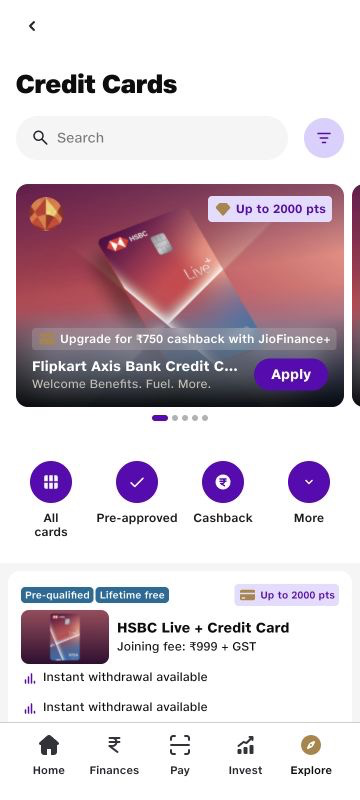
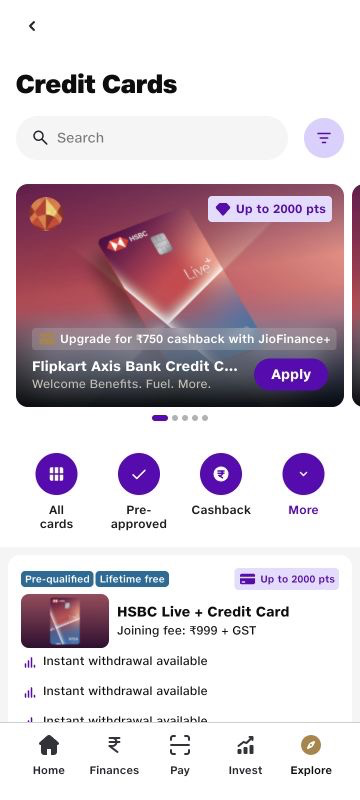
Fix Coin badge modes and Bento section

diff --git a/src/screens/CreditCardsFlow.tsx b/src/screens/CreditCardsFlow.tsx
@@ -16,6 +16,7 @@ import {
   ListItem,
   ProductMerchandisingCard,
   Screen,
+  Section,
   Title,
   VStack,
 } from 'jfs-components'
@@ -168,7 +169,6 @@ function CategoryItem({ category, onPress }: { category: Category; onPress?: () 
       onPress={onPress}
       accessibilityLabel={category.label.replace(/\s/g, ' ')}
       modes={{ Context: 'ListItem' }}
-      style={{ width: '25%', flexGrow: 0, flexShrink: 0 }}
     />
   )
 }
@@ -182,29 +182,29 @@ function CategoryGrid({
   onExpand: () => void
   onNavigate: (route: CreditCardsRoute) => void
 }) {
-  const categories = expanded ? CATEGORIES_EXPANDED : CATEGORIES_COLLAPSED
-
   return (
-    <HStack
-      wrap
-      alignVertical="flex-start"
-      style={{ alignSelf: 'stretch', marginHorizontal: -16, columnGap: 0, rowGap: 0 }}
-    >
-      {categories.map((category) => (
+    <Section.Bento
+      navSlot={CATEGORIES_EXPANDED.map((category) => (
         <CategoryItem
           key={category.label}
           category={category}
           onPress={category.route ? () => onNavigate(category.route!) : undefined}
         />
       ))}
-      <CategoryItem
-        category={{
-          label: expanded ? 'Less' : 'More',
-          icon: expanded ? 'ic_chevron_up' : 'ic_chevron_down',
-        }}
-        onPress={onExpand}
-      />
-    </HStack>
+      collapsedCount={4}
+      expanded={expanded}
+      onExpandedChange={() => onExpand()}
+      toggleMoreLabel="More"
+      toggleLessLabel="Less"
+      modes={{ Context: 'ListItem', Emphasis: 'High', AppearanceBrand: 'Secondary' }}
+      style={{
+        alignSelf: 'stretch',
+        marginHorizontal: -16,
+        paddingHorizontal: 16,
+        paddingVertical: 0,
+        backgroundColor: 'transparent',
+      }}
+    />
   )
 }
 
@@ -236,7 +236,12 @@ function CardHeader({ product }: { product: CreditCardProduct }) {
       </HStack>
       <Badge
         label="Up to 2000 pts"
-        leading={<Icon iconName="ic_card" />}
+        leading={
+          <Icon
+            iconName="ic_card"
+            modes={{ Emphasis: 'Medium', AppearanceBrand: 'Secondary' }}
+          />
+        }
         modes={{
           Context4: 'Badge',
           'Badge Size': 'Small',
@@ -321,7 +326,12 @@ function PromoCard({ configured = false }: { configured?: boolean }) {
       badge={
         <Badge
           label={configured ? 'Up to 2000 pts' : 'Label'}
-          leading={<Icon iconName="ic_jewellery_diamond" />}
+          leading={
+            <Icon
+              iconName="ic_jewellery_diamond"
+              modes={{ Emphasis: 'Medium', AppearanceBrand: 'Secondary' }}
+            />
+          }
           modes={{ Context4: 'Badge', Emphasis: 'Medium', AppearanceBrand: 'Secondary' }}
         />
       }
@@ -385,7 +395,13 @@ function CreditCardsHome({
   const visibleProducts = useMemo(() => filterProducts(HOME_PRODUCTS, search), [search])
 
   useEffect(() => {
-    const reset = setTimeout(() => scrollRef.current?.scrollTo({ y: 0, animated: false }), 0)
+    // Section.Bento finishes its reveal animation before restoring the top.
+    // This also prevents the focused More/Less cell from scrolling the web
+    // preview back into view after the controlled state change.
+    const reset = setTimeout(
+      () => scrollRef.current?.scrollTo({ y: 0, animated: false }),
+      350,
+    )
     return () => clearTimeout(reset)
   }, [expanded])
 

diff --git a/src/web-stubs/reanimated.ts b/src/web-stubs/reanimated.ts
@@ -14,6 +14,8 @@ export const ReduceMotion = { System: 'system', Always: 'always', Never: 'never'
 export const Easing = {
   linear: (value: number) => value,
   ease: (value: number) => value,
+  cubic: (value: number) => value * value * value,
+  out: (fn: unknown) => fn,
   inOut: (fn: unknown) => fn,
   bezier: () => (value: number) => value,
 }

diff --git a/AGENTS.md b/AGENTS.md
@@ -27,6 +27,8 @@ When consuming an exported Figma context package, also read:
 - Do not begin fidelity implementation until required Figma imagery has a usable local file, downloadable URL, or exportable node ID. A layer named `Image` is not an asset handoff.
 - Preserve approved product copy and item ordering exactly. Never invent replacement copy merely to populate a component.
 - Map repeated and composite Figma regions to public Coin components before implementation. Do not manually recreate a category item, card, carousel, badge, or similar published composition.
+- Do not assume modes cascade through arbitrary component slots. Verify slot behavior in the Coin implementation and pass the intended modes directly to slotted icons/content when the host component renders them verbatim.
+- Prefer the correct public Coin pattern when an approved screen is visually correct but structurally mis-composed in Figma and the designer explicitly confirms the design-structure mistake. Preserve the visual result and document the structural correction.
 - Require a rendered Figma reference screenshot for every Ready-for-dev screen and use it for visual QA after implementation.
 - Never report visual QA as passed based only on build success, a running preview, or working navigation. Each state requires a matching-dimension implementation screenshot and direct comparison with its Figma reference.
 - Never implement a composed screen as one flattened screenshot. Reference screenshots are QA evidence; only genuine image/illustration nodes are implementation assets.

diff --git a/docs/FIGMA_TO_CODE_WORKFLOW.md b/docs/FIGMA_TO_CODE_WORKFLOW.md
@@ -62,6 +62,8 @@ Implementation agents:
 - Avoid custom substitutes when Coin exposes the required component
 - Preserve approved copy and ordering exactly; do not invent product content to complete a component
 - Verify composite component behavior before coding. For example, a carousel must contain enough items to reproduce pagination and side peeks, and its initial-state limitations must be documented before implementation
+- Inspect whether public component slots inherit modes. When a slot is rendered verbatim, pass appearance/emphasis modes directly to the slotted child and verify the resolved color in the rendered preview
+- When the designer confirms that a Figma screen uses the wrong structural building block, implement the correct public Coin pattern while retaining the approved visual behavior and recording the intentional structural deviation
 - Capture each implemented state themselves before handing work to independent QA
 
 ### 7. Codex QA

diff --git a/docs/qa/credit-cards/QA_REPORT.md b/docs/qa/credit-cards/QA_REPORT.md
@@ -22,6 +22,8 @@ Each state has a Figma reference in [`reference/`](./reference/) and a rendered 
 ## Passed checks
 
 - Public Coin `Screen`, `AppBar`, `HeroSection`, `Carousel`, `ProductMerchandisingCard`, `ListItem`, `IconCapsule`, `CcCard`, `CardCTA`, `BottomNav`, `VStack`, and `HStack` are used.
+- The category grid uses controlled Coin `Section.Bento` for collapsed/expanded layout, More/Less behavior, animation, and accessibility state.
+- Badge leading icons receive explicit Secondary modes and resolve to Coin purple (`rgb(93, 0, 181)`) in the browser.
 - Exact approved card names, fee copy, ordering, repeated benefits, nudges, Best-for values, and bottom-nav labels are implemented.
 - Required promo, card, Travel-icon, and upgrade-CTA imagery was exported from Figma and added as individual assets.
 - Credit-card components use `width="100%"`; screen descendants are not fixed to 360px.

diff --git a/docs/CODEX_QA_CHECKLIST.md b/docs/CODEX_QA_CHECKLIST.md
@@ -22,6 +22,8 @@ Codex QA is a required preflight before Human QA. It is evidence, not final prod
 - [ ] No Coin instances are detached or manually recreated.
 - [ ] Component properties, variants, modes, and slots match Figma.
 - [ ] Repeated/composite regions have been mapped to their public Coin component before custom layout is considered.
+- [ ] Slotted icons and content resolve the intended modes; QA does not assume the host component cascades modes into slots.
+- [ ] Expandable action grids use the public semantic pattern (for example `Section.Bento`) when available, even when the source screen was manually composed from rows.
 - [ ] Carousel item count, pagination, peeking, and initial state match the approved reference or are recorded as a package/API gap.
 - [ ] No variables were modified.
 - [ ] Missing capabilities are reported as gaps rather than bypassed.
